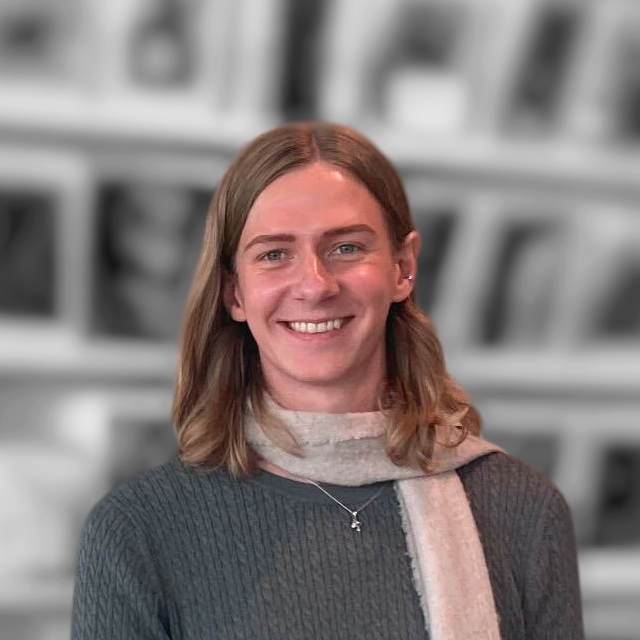
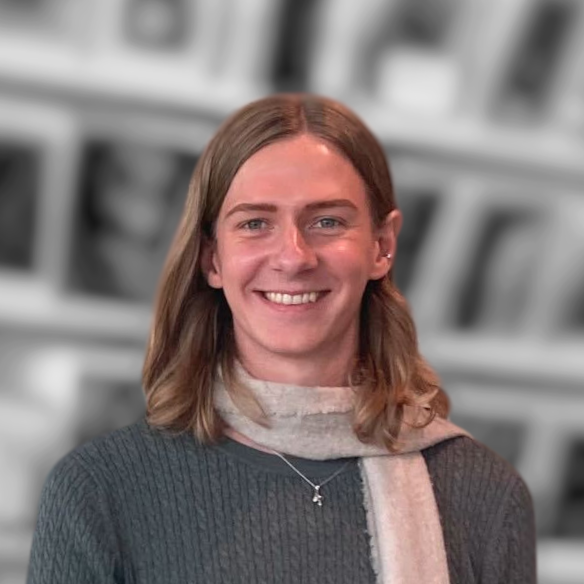
formatting

diff --git a/style.css b/style.css
@@ -5,11 +5,12 @@ h2 {margin-top: 48px;}
 h1, h2 {color: #234;}
 h3, h4, h5 {color: #345;}
 h1, h2, h3, h4, h5, a, p, span, body, div {font-weight: normal; font-family: 'Lato', Verdana, Helvetica, sans-serif;}
-.header {background: linear-gradient(to bottom, #f5f5f8 10%, #f1f1f5 90%); width: 100%; padding-top: 16px; padding-bottom: 32px;}
+.header {width: 100%; padding-top: 16px; padding-bottom: 0px;}
+.header-div {border-bottom: #ddd 2px solid; padding-bottom: 16px;}
 .header-profile-picture, .header-text {display: inline-block;}
-.header-name h1 {margin: 0;}
+.header-name h1 {margin-top: 0; margin-bottom: 2px;}
 .header-subtitle {margin-bottom: 12px;}
-.header-profile-picture {width: 100px; height: 100px; margin-right: 12px; border-radius: 50%; background-image: url(files/me.png); background-position: center; background-size: contain; background-repeat: no-repeat;}
+.header-profile-picture {width: 112px; height: 112px; margin-right: 16px; border-radius: 50%; background-image: url(files/me.png); background-position: center; background-size: contain; background-repeat: no-repeat;}
 .content {max-width: 780px; padding-left: 16px; padding-right: 16px; margin: auto; margin-top: 48px;}
 .hr {width: 100%; height: 1px; margin: 48px 0; background-color: #d6dbdf;}
 a {color: #2471a3; text-decoration: none;}

diff --git a/index.html b/index.html
@@ -15,7 +15,7 @@
 </head>
 
 <div class="header noselect">
-    <div class="content row">
+    <div class="header-div content row">
         <div class="header-profile-picture"></div>
         <div class="header-text">
             <div class="header-name">
@@ -295,6 +295,6 @@
 </div>
 <div class="footer noselect">
     <div class="footer-content">
-        &copy; 2024 Nicklas Hansen. No web trackers. Design is my own. You are welcome to fork it <a style="color: white; text-decoration: underline;" href="https://github.com/nicklashansen/nicklashansen.github.io">here</a>.
+        &copy; 2025 Nicklas Hansen. No web trackers. Design is my own. You are welcome to fork it <a style="color: white; text-decoration: underline;" href="https://github.com/nicklashansen/nicklashansen.github.io">here</a>.
     </div>
 </div>
